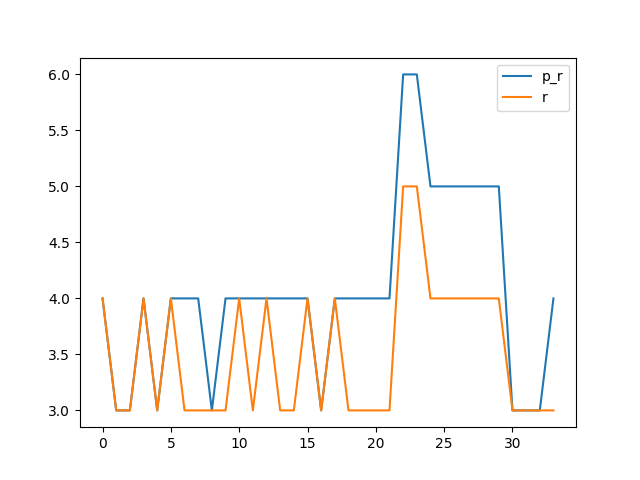
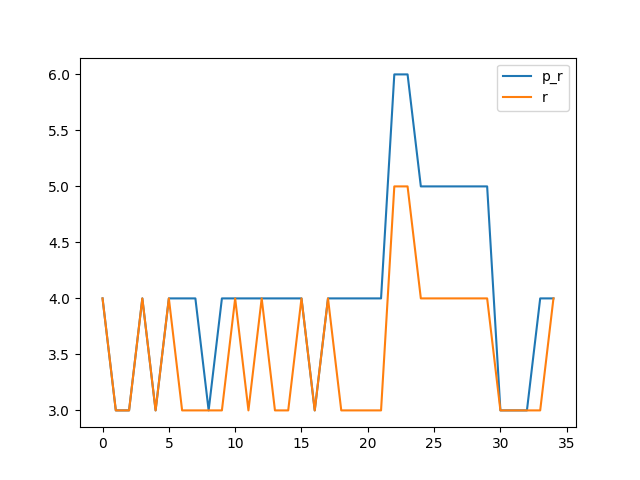
0x0022

diff --git a/benchmark.md b/benchmark.md
@@ -66,16 +66,18 @@ Synthesising 0x0020 pexact:152 r=3 exact:192 r=3
 
 Synthesising 0x0021 pexact:208 r=4 exact:224 r=3
 
+Synthesising 0x0022 pexact:182 r=4 exact:318 r=4
+
 ```mermaid
 xychart-beta
     title "Comparison powertwoexact twoexact"
-    x-axis [0, 1, 2, 3, 4, 5, 6, 7, 8, 9, 10, 11, 12, 13, 14, 15, 16, 17, 18, 19, 20, 21, 22, 23, 24, 25, 26, 27, 28, 29, 30, 31, 32, 33]
+    x-axis [0, 1, 2, 3, 4, 5, 6, 7, 8, 9, 10, 11, 12, 13, 14, 15, 16, 17, 18, 19, 20, 21, 22, 23, 24, 25, 26, 27, 28, 29, 30, 31, 32, 33, 34]
     y-axis "Switching Activity" 0-->464
-    line [96, 152, 152, 182, 152, 182, 208, 182, 152, 208, 182, 182, 182, 182, 182, 182, 152, 182, 208, 182, 208, 182, 406, 400, 336, 310, 310, 304, 310, 304, 224, 216, 152, 208]
-    line [192, 152, 152, 312, 152, 352, 224, 192, 192, 224, 352, 216, 320, 216, 216, 352, 152, 326, 224, 216, 224, 192, 464, 448, 352, 344, 344, 320, 336, 352, 224, 216, 192, 224]
-    line [216.23529411764707, 216.23529411764707, 216.23529411764707, 216.23529411764707, 216.23529411764707, 216.23529411764707, 216.23529411764707, 216.23529411764707, 216.23529411764707, 216.23529411764707, 216.23529411764707, 216.23529411764707, 216.23529411764707, 216.23529411764707, 216.23529411764707, 216.23529411764707, 216.23529411764707, 216.23529411764707, 216.23529411764707, 216.23529411764707, 216.23529411764707, 216.23529411764707, 216.23529411764707, 216.23529411764707, 216.23529411764707, 216.23529411764707, 216.23529411764707, 216.23529411764707, 216.23529411764707, 216.23529411764707, 216.23529411764707, 216.23529411764707, 216.23529411764707, 216.23529411764707]
-    line [263.70588235294116, 263.70588235294116, 263.70588235294116, 263.70588235294116, 263.70588235294116, 263.70588235294116, 263.70588235294116, 263.70588235294116, 263.70588235294116, 263.70588235294116, 263.70588235294116, 263.70588235294116, 263.70588235294116, 263.70588235294116, 263.70588235294116, 263.70588235294116, 263.70588235294116, 263.70588235294116, 263.70588235294116, 263.70588235294116, 263.70588235294116, 263.70588235294116, 263.70588235294116, 263.70588235294116, 263.70588235294116, 263.70588235294116, 263.70588235294116, 263.70588235294116, 263.70588235294116, 263.70588235294116, 263.70588235294116, 263.70588235294116, 263.70588235294116, 263.70588235294116]
-    bar [80, 60, 60, 80, 60, 80, 80, 80, 60, 80, 80, 80, 80, 80, 80, 80, 60, 80, 80, 80, 80, 80, 120, 120, 100, 100, 100, 100, 100, 100, 60, 60, 60, 80]
-    bar [80, 60, 60, 80, 60, 80, 60, 60, 60, 60, 80, 60, 80, 60, 60, 80, 60, 80, 60, 60, 60, 60, 100, 100, 80, 80, 80, 80, 80, 80, 60, 60, 60, 60]
+    line [96, 152, 152, 182, 152, 182, 208, 182, 152, 208, 182, 182, 182, 182, 182, 182, 152, 182, 208, 182, 208, 182, 406, 400, 336, 310, 310, 304, 310, 304, 224, 216, 152, 208, 182]
+    line [192, 152, 152, 312, 152, 352, 224, 192, 192, 224, 352, 216, 320, 216, 216, 352, 152, 326, 224, 216, 224, 192, 464, 448, 352, 344, 344, 320, 336, 352, 224, 216, 192, 224, 318]
+    line [215.25714285714287, 215.25714285714287, 215.25714285714287, 215.25714285714287, 215.25714285714287, 215.25714285714287, 215.25714285714287, 215.25714285714287, 215.25714285714287, 215.25714285714287, 215.25714285714287, 215.25714285714287, 215.25714285714287, 215.25714285714287, 215.25714285714287, 215.25714285714287, 215.25714285714287, 215.25714285714287, 215.25714285714287, 215.25714285714287, 215.25714285714287, 215.25714285714287, 215.25714285714287, 215.25714285714287, 215.25714285714287, 215.25714285714287, 215.25714285714287, 215.25714285714287, 215.25714285714287, 215.25714285714287, 215.25714285714287, 215.25714285714287, 215.25714285714287, 215.25714285714287, 215.25714285714287]
+    line [265.25714285714287, 265.25714285714287, 265.25714285714287, 265.25714285714287, 265.25714285714287, 265.25714285714287, 265.25714285714287, 265.25714285714287, 265.25714285714287, 265.25714285714287, 265.25714285714287, 265.25714285714287, 265.25714285714287, 265.25714285714287, 265.25714285714287, 265.25714285714287, 265.25714285714287, 265.25714285714287, 265.25714285714287, 265.25714285714287, 265.25714285714287, 265.25714285714287, 265.25714285714287, 265.25714285714287, 265.25714285714287, 265.25714285714287, 265.25714285714287, 265.25714285714287, 265.25714285714287, 265.25714285714287, 265.25714285714287, 265.25714285714287, 265.25714285714287, 265.25714285714287, 265.25714285714287]
+    bar [80, 60, 60, 80, 60, 80, 80, 80, 60, 80, 80, 80, 80, 80, 80, 80, 60, 80, 80, 80, 80, 80, 120, 120, 100, 100, 100, 100, 100, 100, 60, 60, 60, 80, 80]
+    bar [80, 60, 60, 80, 60, 80, 60, 60, 60, 60, 80, 60, 80, 60, 60, 80, 60, 80, 60, 60, 60, 60, 100, 100, 80, 80, 80, 80, 80, 80, 60, 60, 60, 60, 80]
 ```
 
